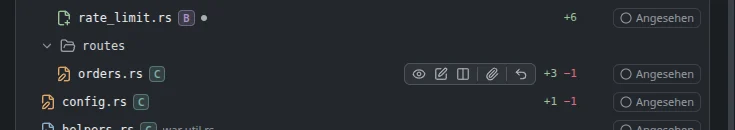
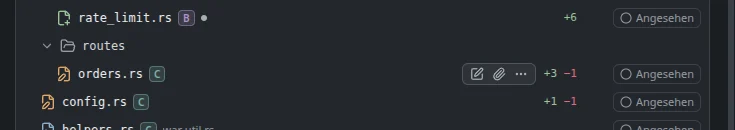
CodeDeck manual: rows show edit, paperclip and ⋯; the rest in the menu
Claude-Session: https://claude.ai/code/session_01AmUU1ckh5iDie4vHPz56Cn

Changed region(s): [[0.5388, 0.5231, 0.7184, 0.6154], [0.5388, 0.6462, 0.6286, 0.6769], [0.5388, 0.4615, 0.6286, 0.4923]]

diff --git a/src/pages/codedeck/manual/de/tutorial/05-aenderungen.md b/src/pages/codedeck/manual/de/tutorial/05-aenderungen.md
@@ -50,16 +50,15 @@ Die Markierung gilt nur für dich und hat keinen Einfluss darauf, was in einen C
 
 ## Dateien öffnen, anhängen und verwerfen
 
-Zeigst du mit der Maus auf eine Datei, erscheinen ihre Werkzeuge:
+Zeigst du mit der Maus auf eine Datei, erscheinen ihre beiden häufigsten Werkzeuge und das Menü ⋯:
 
-![Eine Datei im Baum mit eingeblendeten Werkzeugen: Ansehen, Bearbeiten, Diff in Dirq, Anhängen und Verwerfen, rechts der Schalter „Angesehen“](/codedeck/manual/de/aenderungen-werkzeuge.webp)
+![Eine Datei im Baum mit eingeblendeten Werkzeugen: Bearbeiten, Anhängen und ⋯, rechts der Schalter „Angesehen“](/codedeck/manual/de/aenderungen-werkzeuge.webp)
 
-- **Ansehen** öffnet die Datei zum Lesen, **Bearbeiten** in deinem Editor. Welches Programm dabei startet, sagt der Hinweis am Symbol.
-- **Diff in Dirq** öffnet ihren Diff nebeneinander in Dirq, falls es installiert ist.
+- **Bearbeiten** öffnet die Datei in deinem Editor. Welches Programm dabei startet, sagt der Hinweis am Symbol.
 - **Anhängen** hängt die Änderung dieser einen Datei an deinen nächsten Prompt.
-- **Verwerfen** nimmt die Änderungen an der Datei zurück, die noch nicht committet sind. CodeDeck fragt vorher nach, denn das lässt sich nicht rückgängig machen.
+- **⋯** öffnet ein Menü mit allem Weiteren: **Ansehen** zum Lesen, **Diff in Dirq** nebeneinander, falls Dirq installiert ist, **Im Baum zeigen**, das die Datei in der Dateiliste aufsucht, und **Verwerfen**. Verwerfen nimmt die Änderungen an der Datei zurück, die noch nicht committet sind. CodeDeck fragt vorher nach, denn das lässt sich nicht rückgängig machen.
 
-Ein Klick auf eine Datei klappt nur ihren Diff auf und zu. Öffnen, Bearbeiten und alles andere geht bewusst nur über die Werkzeuge, damit du nichts aus Versehen auslöst.
+Ein Klick auf eine Datei klappt nur ihren Diff auf und zu. Öffnen, Bearbeiten und alles andere geht bewusst nur über die Werkzeuge und das Menü, damit du nichts aus Versehen auslöst.
 
 ## Probier es aus
 
